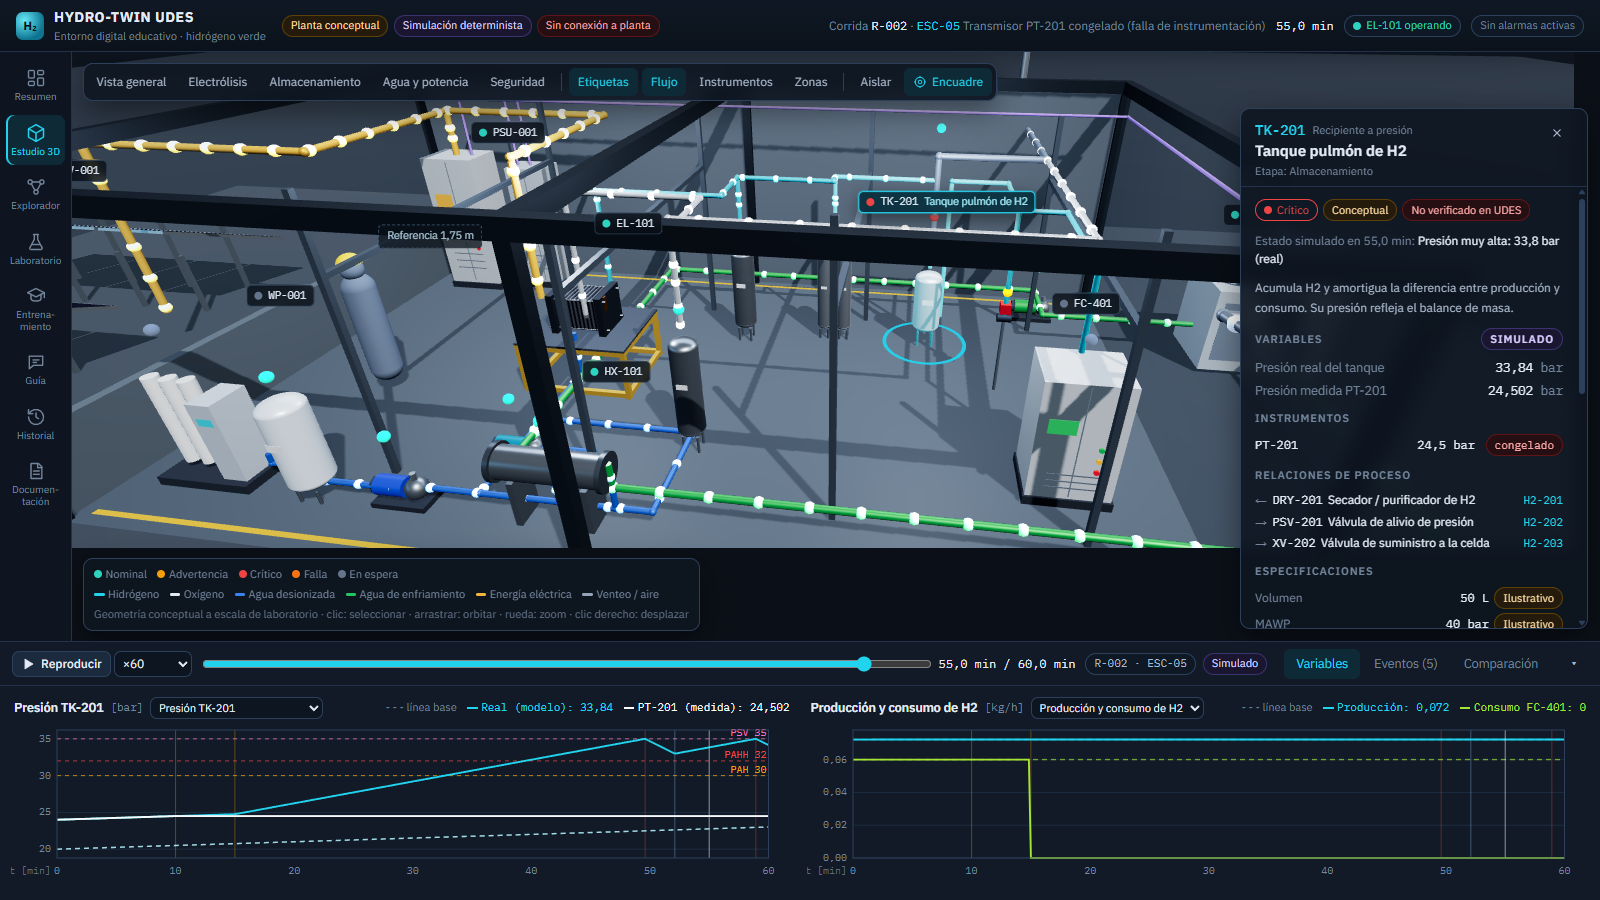
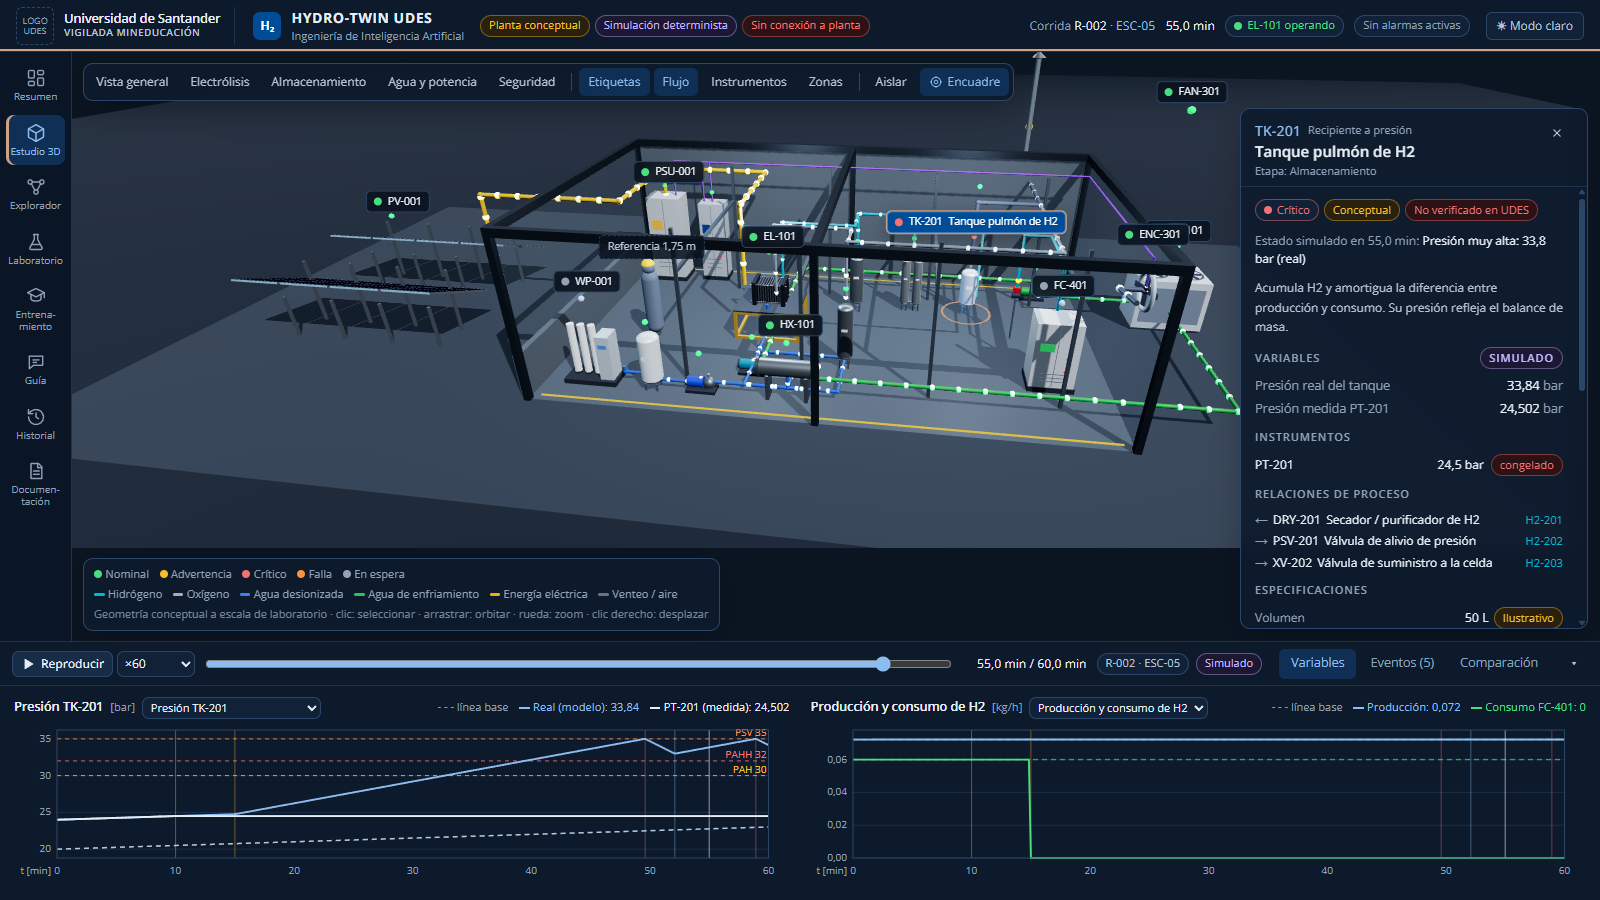
Documentar estado actual del proyecto
- README en español: qué es, para qué sirve, instalación, clonación en
  VS Code, capturas con la identidad UDES y créditos académicos (UDES,
  Ingeniería de Inteligencia Artificial).
- Nuevo docs/ESTADO_ACTUAL.md: completo y verificado, parcial,
  limitaciones (planta conceptual, valores ilustrativos no calibrados)
  y próximos pasos.
- Enlaces a ARQUITECTURA, LIMITACIONES_Y_VALIDACION, GUION_DEMOSTRACION,
  MATRIZ_INVESTIGACION e IDENTIDAD_VISUAL; conteo de pruebas actualizado.

diff --git a/README.md b/README.md
@@ -1,93 +1,133 @@
 # HYDRO-TWIN UDES
 
-**Entorno digital educativo de hidrógeno verde — Universidad de Santander (UDES)**
+**Gemelo digital educativo de una planta de hidrógeno verde**
+Proyecto académico · **Universidad de Santander (UDES)** · Ingeniería de Inteligencia Artificial
 
-Aplicación de escritorio vía navegador que combina:
+![Estudio 3D — escenario de falla de instrumentación (modo oscuro)](docs/capturas/estudio-3d.png)
 
-- una **escena 3D interactiva** de una planta de electrólisis PEM a escala de laboratorio (geometría procedural, conceptual);
-- un **modelo semántico del proceso** (21 equipos, 23 conexiones tipadas, 9 instrumentos) con validación de topología;
-- una **simulación determinista y trazable** (ley de Faraday, curva de polarización PEM, balance térmico, balance de masa del tanque, dilución en el recinto, lógica de alarmas/disparos y PSV);
-- **6 escenarios documentados** (normal, cambio de entrada, desviación, falla de equipo, falla de instrumento, fuga hipotética) con intervención/recuperación;
-- una **misión de entrenamiento** completa con rúbrica de 100 puntos calculada a partir de las corridas del estudiante;
-- una **guía de ingeniería determinista** (basada en reglas, *no* es un LLM) que separa hechos del modelo y explicación;
-- **historial** de corridas y eventos y **comparación** contra una línea base.
+## ¿Qué es?
 
-> **Alcance honesto.** No se dispuso de planos, hojas de datos, videos ni mediciones de la planta UDES. La configuración es **conceptual**, los parámetros son **ilustrativos** y todos los valores son **simulados**. La aplicación **no** está conectada a sensores ni controla equipos. En la escala de madurez es: representación visual ✔ · modelo de ingeniería interactivo ✔ · entorno operativo simulado ✔ · gemelo conectado a datos ✘ · gemelo industrial validado ✘.
+HYDRO-TWIN UDES es una aplicación web que se ejecuta en el computador y representa una **planta de producción de hidrógeno verde por electrólisis PEM** a escala de laboratorio. Reúne en un mismo entorno:
 
-## Requisitos
+- una **escena 3D interactiva** de la planta (geometría conceptual) en la que se puede orbitar, seleccionar equipos y ver su estado;
+- un **modelo del proceso**: 21 equipos, 23 conexiones tipadas y 9 instrumentos, con validación automática de la topología;
+- una **simulación determinista y trazable**: ley de Faraday, curva de polarización PEM, balance térmico, balance de masa del tanque, dilución de una fuga en el recinto, alarmas, disparos y válvula de alivio;
+- **6 escenarios documentados**: operación normal, cambio de potencia, pérdida de demanda, falla de bomba, falla de sensor y fuga hipotética, con acciones de recuperación;
+- una **misión de entrenamiento** (M-01) con rúbrica de 100 puntos calculada a partir de las corridas del propio estudiante;
+- una **guía de ingeniería basada en reglas** (no es un modelo de lenguaje) que explica eventos y cambios citando la fuente de cada dato;
+- **historial** de corridas y **comparación** contra una línea base.
 
-- Node.js ≥ 20 (verificado con Node 24.19, npm 11.17)
-- Navegador con WebGL 2 (Edge/Chrome actuales)
-- Sin base de datos, sin claves de API, sin conexión a internet en tiempo de ejecución (las fuentes se incorporan en la compilación).
+## ¿Para qué sirve?
 
-## Instalación y ejecución
+- **Docencia:** que los estudiantes entiendan cómo se conectan los equipos de una planta de hidrógeno verde, qué variables importan y cómo responden las protecciones ante una falla.
+- **Entrenamiento:** practicar decisiones de operación en escenarios de falla sin riesgo y recibir retroalimentación explicada.
+- **Investigación:** servir de base para un gemelo digital real de la planta de la UDES cuando existan planos y mediciones.
+
+> **Alcance honesto.** No se dispuso de planos, hojas de datos ni mediciones de la planta de la UDES. La configuración de la planta es **conceptual**, los parámetros son **ilustrativos (no calibrados)** y todos los valores son **simulados**. La aplicación **no** está conectada a sensores ni controla equipos. El estado detallado está en [`docs/ESTADO_ACTUAL.md`](docs/ESTADO_ACTUAL.md).
+
+## Capturas
+
+| Modo claro | Misión de entrenamiento |
+|---|---|
+| ![Estudio 3D en modo claro](docs/capturas/estudio-3d-claro.png) | ![Misión M-01](docs/capturas/mision-m01.png) |
+
+## Instalación
+
+Requisitos: [Node.js](https://nodejs.org) 20 o superior (verificado con Node 24) y un navegador moderno (Edge o Chrome). No necesita base de datos, claves de API ni internet mientras se ejecuta.
+
+### Clonar en VS Code
+
+1. Abrir VS Code → botón **Clone Repository** (o `Ctrl+Shift+P` → «Git: Clone»).
+2. Pegar `https://github.com/angelcrack2501-bit/udes-gemelo-digital-hidrogeno-verde` y elegir una carpeta (por ejemplo, Documentos).
+3. Abrir la carpeta clonada cuando VS Code lo ofrezca.
+
+O desde una terminal:
+
+```bash
+git clone https://github.com/angelcrack2501-bit/udes-gemelo-digital-hidrogeno-verde.git
+```
+
+### Ejecutar
+
+En la terminal de VS Code (**Terminal → New Terminal**), dentro de la carpeta del proyecto:
 
 ```bash
 npm install
+```
+
+```bash
 npm run dev
 ```
 
-Abrir <http://localhost:3000>. Para una demostración más fluida, usar la compilación de producción:
+Abrir la dirección que muestre la terminal (normalmente <http://localhost:3000>; si ese puerto está ocupado, Next.js usa el 3001). Para detenerla: `Ctrl + C` en la terminal.
+
+Para una demostración más fluida, usar la versión de producción:
 
 ```bash
 npm run build
+```
+
+```bash
 npm start
 ```
 
-Pantalla recomendada: ≥ 1366 × 768 (diseñada para 1600 × 900 o superior).
+Pantalla recomendada: 1366 × 768 o superior.
 
-### Enlaces directos de demostración
+### Enlaces directos para la demostración
 
 | Enlace | Qué abre |
 |---|---|
 | `/?seccion=studio&sel=EL-101` | Estudio 3D con la pila PEM seleccionada |
-| `/?seccion=lab&escenario=demand_loss&t=45&sel=TK-201` | ESC-03 en el minuto 45 con el tanque seleccionado |
-| `/?seccion=lab&escenario=sensor_stuck&t=55&sel=PSV-201` | ESC-05: PT-201 congelado y PSV abierta |
-| `/?seccion=training` | Misión M-01 |
+| `/?seccion=lab&escenario=demand_loss&t=45&sel=TK-201` | Pérdida de demanda (ESC-03) en el minuto 45 |
+| `/?seccion=lab&escenario=sensor_stuck&t=55&sel=PSV-201` | Sensor PT-201 congelado y válvula de alivio abierta (ESC-05) |
+| `/?seccion=training` | Misión de entrenamiento M-01 |
+| Añadir `&tema=claro` o `&tema=oscuro` | Forzar el modo de color |
+
+## Identidad visual
+
+Sigue el Manual de Marca UDES: **Azul UDES `#014C97`** como color principal, **Dorado UDES `#CEA284`** para acentos y tipografía **Open Sans**. Tiene modo claro y oscuro, con contraste verificado automáticamente. El logo oficial no se recrea: se coloca en `public/brand/` (ver [`public/brand/README.md`](public/brand/README.md)). Detalles en [`docs/IDENTIDAD_VISUAL.md`](docs/IDENTIDAD_VISUAL.md).
 
 ## Verificación
 
 ```bash
-npm run lint        # ESLint (configuración de Next.js)
+npm run lint        # revisión de estilo (ESLint)
 npm run typecheck   # TypeScript estricto
-npm test            # 43 pruebas (Vitest): electroquímica, motor, escenarios, topología, misión, guía
+npm test            # 48 pruebas unitarias (Vitest): física, motor, escenarios, topología, misión, guía, contraste
 npm run build       # compilación de producción
-npm run e2e         # recorrido de demostración en el navegador (Playwright, 8 pruebas)
+npm run e2e         # recorrido completo de la demostración en el navegador (Playwright, 8 pruebas)
 ```
 
-`npm run e2e` compila y arranca la versión de producción en el puerto 3000 y recorre la demostración: carga con R-001, etiqueta 3D → inspector, árbol del explorador, ESC-03 con disparo PAHH ≈ 48,8 min, intervención en el minuto 25 («mejor» en presión máx.), misión M-01 con 100/100, la guía ante «¿Cuál es la presión real de la planta UDES ahora?» y determinismo al recargar. La primera vez: `npx playwright install chromium`. Sin descarga posible: `PW_CHANNEL=msedge npm run e2e`. Con el puerto 3000 ocupado: `E2E_PORT=3100 npm run e2e`. Informe HTML de fallos: `npx playwright show-report`.
-
-## Recorrido de demostración (resumen)
-
-1. **Resumen** → leer el alcance y la escala de madurez.
-2. **Estudio 3D** → orbitar; clic en una etiqueta o en un equipo → inspector con función, variables simuladas, relaciones, especificaciones con procedencia.
-3. **Explorador** → esquema de topología y *ruta de influencia* (p. ej. EL-101 → FC-401).
-4. **Laboratorio** → ESC-03 → *Ejecutar* → ver alarma PAH y disparo PAHH en **Eventos**.
-5. Marcar como línea base, activar la intervención (minuto 25) → *Ejecutar* → pestaña **Comparación**.
-6. **Entrenamiento** → misión M-01 completa → evaluación por rúbrica.
-7. **Guía** → «¿Por qué se disparó el evento?», «¿Qué cambió frente a la línea base?».
-
-El guion completo para el profesor está en [`docs/GUION_DEMOSTRACION.md`](docs/GUION_DEMOSTRACION.md).
+`npm run e2e` compila y arranca la versión de producción en el puerto 3000 y recorre la demostración de punta a punta. La primera vez hay que ejecutar `npx playwright install chromium`. Sin posibilidad de descarga: `PW_CHANNEL=msedge npm run e2e`. Con el puerto 3000 ocupado: `E2E_PORT=3100 npm run e2e`. Informe HTML de fallos: `npx playwright show-report`.
 
 ## Documentación
 
 | Documento | Contenido |
 |---|---|
-| [`docs/ARQUITECTURA.md`](docs/ARQUITECTURA.md) | Arquitectura, decisiones técnicas, mapa de módulos, relación con el repositorio previo |
-| [`docs/LIMITACIONES_Y_VALIDACION.md`](docs/LIMITACIONES_Y_VALIDACION.md) | Modelo, supuestos, pruebas, limitaciones, procedencia de datos, trabajo futuro |
+| [`docs/ESTADO_ACTUAL.md`](docs/ESTADO_ACTUAL.md) | **Qué está completo, qué está parcial, limitaciones y próximos pasos** |
+| [`docs/GUION_DEMOSTRACION.md`](docs/GUION_DEMOSTRACION.md) | Guion de demostración paso a paso para el profesor (≈ 15 min) |
+| [`docs/ARQUITECTURA.md`](docs/ARQUITECTURA.md) | Arquitectura, decisiones técnicas y mapa de módulos |
+| [`docs/LIMITACIONES_Y_VALIDACION.md`](docs/LIMITACIONES_Y_VALIDACION.md) | Modelo, supuestos, pruebas, procedencia de datos y trabajo futuro |
 | [`docs/MATRIZ_INVESTIGACION.md`](docs/MATRIZ_INVESTIGACION.md) | Matriz de investigación con referencias verificadas |
-| [`docs/GUION_DEMOSTRACION.md`](docs/GUION_DEMOSTRACION.md) | Guion de demostración paso a paso |
-| En la aplicación → **Documentación** | Ecuaciones, parámetros con procedencia, escenarios, planta conceptual, referencias, limitaciones |
+| [`docs/IDENTIDAD_VISUAL.md`](docs/IDENTIDAD_VISUAL.md) | Aplicación del Manual de Marca UDES y tabla de contraste |
+| En la aplicación → **Documentación** | Ecuaciones, parámetros con su procedencia, escenarios, referencias y limitaciones |
 
-## Estructura
+## Estructura del código
 
 ```
 src/
-  domain/     modelo semántico: tipos, parámetros (única fuente de verdad), planta, topología
-  sim/        motor determinista, electroquímica, reglas de alarma, escenarios, comparación, mapa de estados
-  training/   misión M-01 y rúbrica
-  guide/      guía determinista basada en reglas
+  domain/     modelo del proceso: tipos, parámetros (única fuente de verdad), planta, topología
+  sim/        motor de simulación, electroquímica, reglas de alarma, escenarios, comparación
+  training/   misión M-01 y rúbrica de evaluación
+  guide/      guía de ingeniería basada en reglas
   state/      estado compartido de la sesión (selección, corridas, reproducción, misión)
-  scene/      escena 3D (React Three Fiber): disposición conceptual, modelos procedurales
-  components/ interfaz: paneles, inspector, gráficas SVG, dock de resultados, documentación
+  scene/      escena 3D (React Three Fiber): disposición conceptual y modelos procedurales
+  theme/      tokens de color UDES, modo claro/oscuro y prueba de contraste
+  components/ interfaz: paneles, inspector, gráficas, resultados y documentación
+e2e/          pruebas del recorrido de demostración (Playwright)
 ```
+
+Tecnologías: Next.js 16, React 19, TypeScript, Tailwind CSS 4, Three.js con React Three Fiber, Vitest y Playwright.
+
+## Créditos
+
+Proyecto académico desarrollado en la **Universidad de Santander (UDES)**, programa de **Ingeniería de Inteligencia Artificial**, por Angel Santiago Vargas, con asistencia de Claude Code (Anthropic). Uso educativo; no constituye un sistema de control ni de seguridad industrial.

diff --git a/docs/ESTADO_ACTUAL.md b/docs/ESTADO_ACTUAL.md
@@ -1,0 +1,69 @@
+# Estado actual del proyecto — HYDRO-TWIN UDES
+
+**Fecha de corte:** 16 de octubre de 2026 · **Rama:** `main`
+
+Resumen para la presentación ante la UDES: qué funciona y está verificado, qué está parcial, cuáles son las limitaciones y qué sigue.
+
+## Nivel de madurez
+
+| Nivel | Estado |
+|---|---|
+| 1. Representación visual digital | ✅ Alcanzado |
+| 2. Modelo de ingeniería interactivo | ✅ Alcanzado |
+| 3. Entorno operativo simulado (determinista, educativo) | ✅ Alcanzado |
+| 4. Gemelo digital conectado a datos de la planta | ❌ No alcanzado: no hay sensores ni datos medidos |
+| 5. Gemelo digital industrial validado | ❌ No alcanzado: no hay calibración contra la planta real |
+
+En rigor, hoy es un **entorno digital educativo con simulación trazable**, preparado para convertirse en gemelo digital cuando existan datos de la planta.
+
+## 🟢 Completo y verificado
+
+| Función | Cómo se verificó |
+|---|---|
+| Escena 3D interactiva: orbitar, encuadres, selección por etiqueta y por clic, inspector, capas, aislar, flujo animado | Recorrido manual en el navegador y prueba automática con Playwright |
+| Modelo del proceso: 21 equipos, 23 conexiones tipadas, 9 instrumentos, validación de topología y rutas de influencia | 6 pruebas unitarias |
+| Simulación determinista con 6 escenarios, eventos (regla, umbral, severidad, respuesta, resultado) y recuperación | 25 pruebas unitarias (física y motor), incluido el balance de masa y el determinismo |
+| Comparación contra línea base e historial de corridas (se re-simulan idénticas al recargar) | Pruebas unitarias y prueba de recarga con Playwright |
+| Misión M-01 con rúbrica de 100 puntos derivada de las corridas del estudiante | 6 pruebas unitarias y recorrido completo con Playwright (100/100) |
+| Guía de ingeniería basada en reglas, que separa hechos del modelo y explicación, y no responde sobre la planta real | 6 pruebas unitarias y prueba con Playwright |
+| Identidad visual UDES: Azul `#014C97`, Dorado `#CEA284`, Open Sans, modo claro y oscuro | Prueba automática de contraste WCAG en ambos modos (ver [`IDENTIDAD_VISUAL.md`](IDENTIDAD_VISUAL.md)) |
+| Calidad del código | `lint` sin errores, `typecheck` sin errores, **48/48** pruebas unitarias, **8/8** pruebas del recorrido (Playwright), compilación de producción correcta |
+
+Rendimiento medido: unos 113 cuadros por segundo en el navegador integrado con la GPU integrada AMD Radeon, en una ventana pequeña. No se midió en la GTX 1650 ni a pantalla completa.
+
+## 🟡 Parcial
+
+- **Modelo físico:** las ecuaciones son estándar y tienen unidades, pero los parámetros (tamaño de la pila, tanque, umbrales) son **ilustrativos**. Los resultados (≈ 48 kWh/kg, ≈ 81 % de eficiencia a nivel de pila) son plausibles pero **no están calibrados**.
+- **Escenario de fuga:** usa un modelo de mezcla perfecta. No representa la acumulación del hidrógeno bajo el techo ni sustituye un estudio de dispersión (CFD).
+- **Logo:** hay un espacio reservado. Falta el archivo oficial en `public/brand/logo-udes.svg` o `.png`.
+- **Pantallas pequeñas:** la interfaz está pensada para 1366 × 768 o más; en ventanas estrechas se comprime. Las etiquetas 3D pueden superponerse en la vista general.
+- **Historial:** se guarda en el navegador de cada computador; no se comparte entre equipos.
+- **Dependencias:** `npm install` reporta avisos de seguridad en algunas librerías (entre ellas la versión instalada de Next.js). No afectan el uso local de la demostración, pero conviene actualizarlas con pruebas antes de publicarla en un servidor.
+
+## ⚠ Limitaciones importantes
+
+1. **La planta es conceptual.** No se tuvo acceso a planos, P&ID, hojas de datos, fotos ni videos de la planta de la UDES. Ningún equipo está verificado contra la instalación real, y la interfaz lo indica con la etiqueta «No verificado en UDES».
+2. **Los valores son ilustrativos.** Cada parámetro muestra su procedencia en la aplicación (Documentación → Parámetros): literatura, ilustrativo o conceptual. Ninguno es una medición.
+3. **No hay conexión con la planta.** No lee sensores ni controla equipos, y no es un sistema de seguridad.
+4. **Los escenarios de seguridad son educativos.** No son procedimientos de emergencia reales.
+5. **La guía no es una IA generativa.** Es un sistema de reglas transparente; no hay un modelo de lenguaje integrado.
+
+## Próximos pasos
+
+| Prioridad | Paso | Qué se necesita |
+|---|---|---|
+| 1 | **Levantamiento de la planta UDES**: lista de equipos, P&ID, hojas de datos, fotos y video | Acceso a la planta y a su documentación técnica |
+| 2 | **Reemplazar la configuración conceptual** por la real y marcar los equipos como verificados | Resultado del paso 1 |
+| 3 | **Calibrar el modelo**: curva de polarización medida, ensayos térmicos, volumen real de almacenamiento | Mediciones del electrolizador |
+| 4 | **Conectar datos** desde el PLC/SCADA de la planta y distinguir en la interfaz lo medido de lo simulado | Autorización y protocolo (OPC UA o Modbus) |
+| 5 | **Validar**: error de predicción por variable y versiones del modelo | Datos históricos de operación |
+| 6 | **Evaluar el impacto educativo** con estudiantes (prueba antes y después) | Grupo piloto y aval del docente |
+| 7 | Extensiones: IA generativa con fuentes controladas, realidad virtual (WebXR) y física avanzada | Tras validar el modelo |
+
+## Documentos relacionados
+
+- [`GUION_DEMOSTRACION.md`](GUION_DEMOSTRACION.md): guion de demostración para el profesor.
+- [`ARQUITECTURA.md`](ARQUITECTURA.md): arquitectura y decisiones técnicas.
+- [`LIMITACIONES_Y_VALIDACION.md`](LIMITACIONES_Y_VALIDACION.md): modelo, supuestos, pruebas y trabajo futuro.
+- [`MATRIZ_INVESTIGACION.md`](MATRIZ_INVESTIGACION.md): referencias verificadas.
+- [`IDENTIDAD_VISUAL.md`](IDENTIDAD_VISUAL.md): Manual de Marca aplicado y contraste.

diff --git a/docs/LIMITACIONES_Y_VALIDACION.md b/docs/LIMITACIONES_Y_VALIDACION.md
@@ -40,7 +40,7 @@ Ecuaciones completas con unidades, rango de validez y limitaciones: aplicación 
 
 Resultados nominales (ESC-01, 3,5 kW): I ≈ 98 A, V_celda ≈ 1,79 V, 0,072 kg/h (0,80 Nm³/h), η_PCS ≈ 81 %, CEE ≈ 48,4 kWh/kg **a nivel de pila**. Son coherentes con el orden de magnitud de pilas PEM, pero **no están calibrados** contra ningún equipo real.
 
-## 4. Pruebas automatizadas (Vitest) — 43 pruebas, 5 archivos
+## 4. Pruebas automatizadas (Vitest) — 48 pruebas, 6 archivos
 
 | Archivo | Qué valida |
 |---|---|
@@ -48,9 +48,10 @@ Resultados nominales (ESC-01, 3,5 kW): I ≈ 98 A, V_celda ≈ 1,79 V, 0,072 kg/
 | `src/sim/engine.test.ts` (18) | Determinismo (resultados idénticos en los 6 escenarios); muestreo; *clamping* de entradas; **balance de masa del tanque** (Δn = producido − consumido − venteado − fugado); agua estequiométrica ≈ 8,94 kg/kg; secuencias PAH→PAHH, TAH→TAHH, GD alarma→disparo; PSV no abre en ESC-03; PT-201 congelado → sin PAHH y apertura de PSV; recuperación y rearme; perfil FV. |
 | `src/domain/topology.test.ts` (6) | Planta sin errores; detección de referencias rotas, fluidos incompatibles y duplicados; aguas arriba/abajo; rutas de influencia. |
 | `src/training/mission.test.ts` (6) | Respuestas esperadas derivadas de las corridas; puntaje 100 con respuestas correctas; «apagar la pila» no obtiene puntaje de producción; tolerancias; `canAdvance` exige acciones reales. |
+| `src/theme/tokens.test.ts` (5) | Colores institucionales UDES; contraste WCAG de todos los pares texto/fondo en modo claro y oscuro; generación de variables CSS. |
 | `src/guide/engine.test.ts` (6) | Clasificación de intención; explicación del disparo con regla/umbral/causa; números citados provienen de la corrida; comparación con línea base; protección ante preguntas sobre la planta real. |
 
-Comandos: `npm test`, `npm run typecheck`, `npm run lint`, `npm run build` (todos en verde al cierre de esta versión).
+Comandos: `npm test`, `npm run typecheck`, `npm run lint`, `npm run build` y `npm run e2e` (recorrido de demostración con Playwright, 8 pruebas).
 
 ## 5. Verificación en la aplicación (realizada)
 
